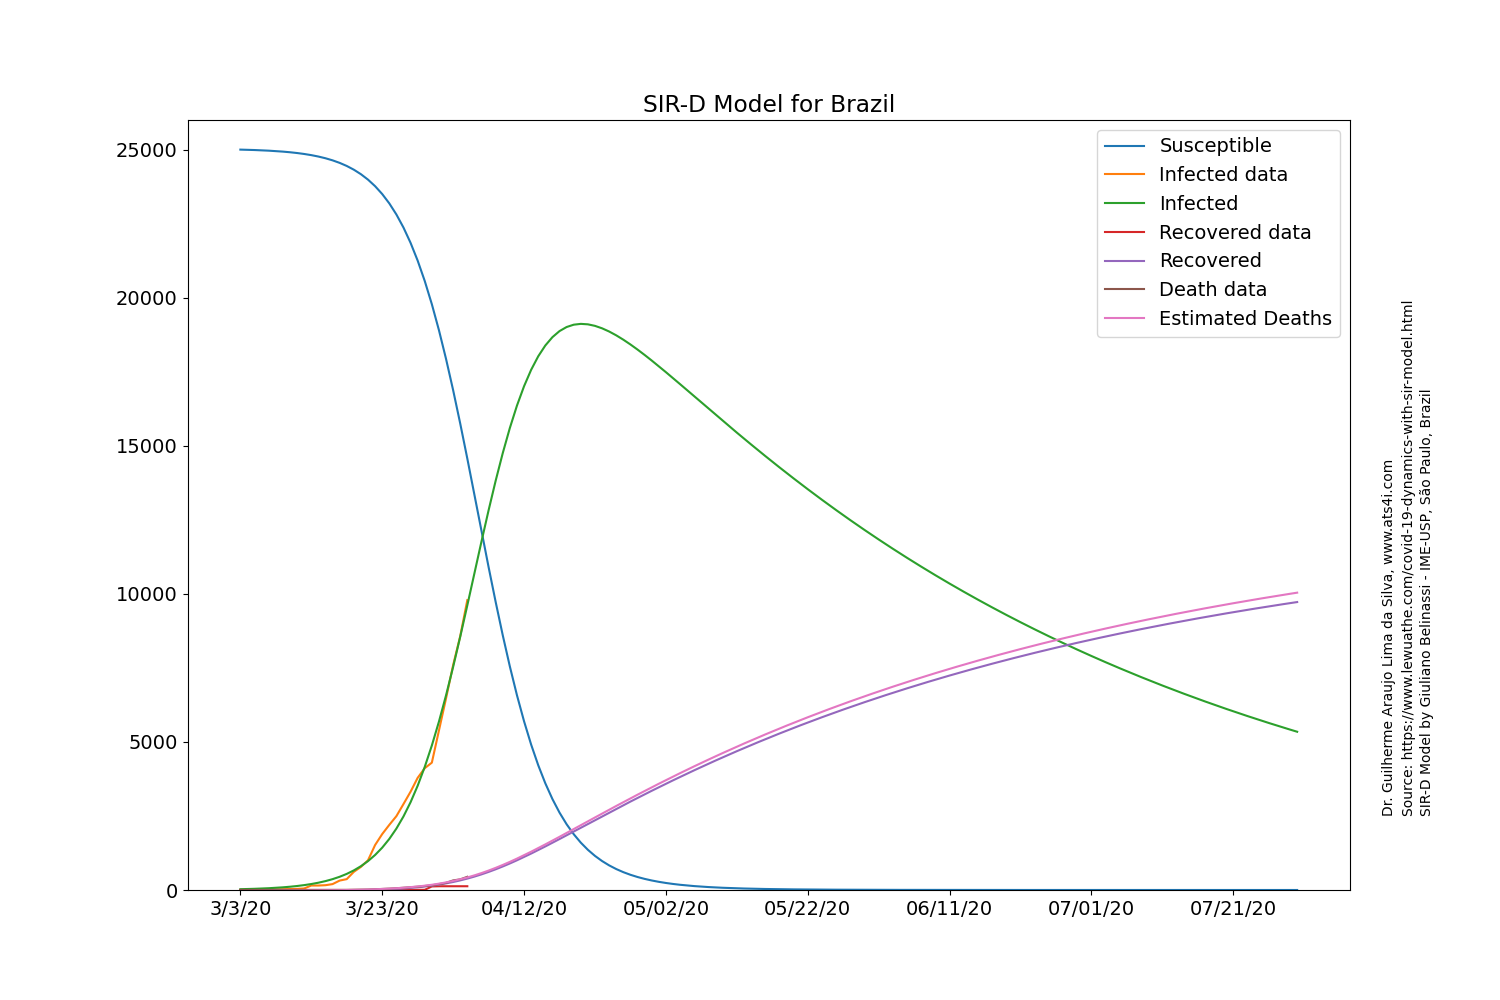
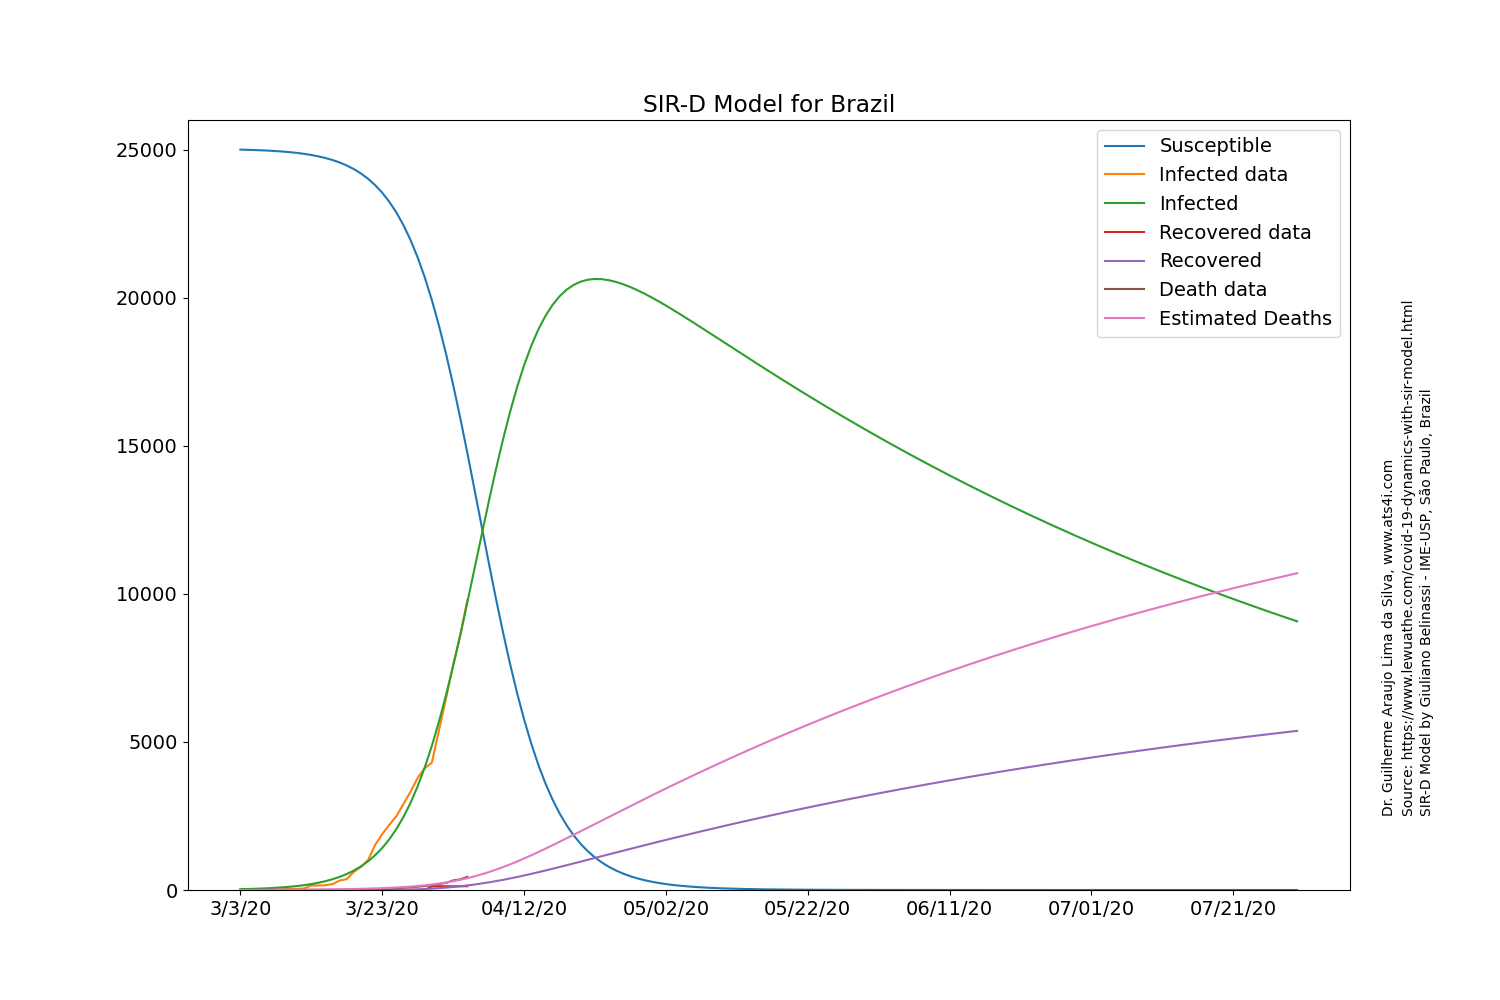
Now it is correct!

diff --git a/dataAndModelsCovid19.py b/dataAndModelsCovid19.py
@@ -71,7 +71,7 @@ def parse_arguments(country):
 
     if country1=="Italy":
         date="1/31/20"
-        s0=160000
+        s0=220000
         i0=23
         r0=15
         k0=100
@@ -264,8 +264,8 @@ class Learner(object):
         death = self.load_dead(self.country)
         data = (self.load_confirmed(self.country) - recovered - death)
 
-        #optimal = minimize(lossOdeint,        
-        optimal = minimize(loss,
+        optimal = minimize(lossOdeint,        
+        # optimal = minimize(loss,
             [0.001, 0.001, 0.001],
             args=(data, recovered, death, self.s_0, self.i_0, self.r_0, self.d_0),
             method='L-BFGS-B',
@@ -330,7 +330,7 @@ def lossOdeint(point, data, recovered, death, s_0, i_0, r_0, d_0):
     #weight for cases
     u = 0.25
     #weight for recovered
-    v = 0.01 ##Brazil France 0.04 US 0.02 China 0.01 (it has a lag in recoveries) Others 0.15
+    v = 0.15 ##Brazil France 0.04 US 0.02 China 0.01 (it has a lag in recoveries) Others 0.15
     #weight for deaths
     w = 1 - u - v
     return u*l1 + v*l2 + w*l3
@@ -339,7 +339,7 @@ def lossOdeint(point, data, recovered, death, s_0, i_0, r_0, d_0):
 def loss(point, data, recovered, death, s_0, i_0, r_0, d_0):
     size = len(data)
     beta, a, b = point
-    def SIR(t, y):
+    def SIR(y,t):
         S = y[0]
         I = y[1]
         R = y[2]
@@ -414,7 +414,7 @@ df=df.transpose()
 #opt=3 bar plot with growth rate
 #opt=4 log plot + bar plot
 #opt=5 SIR-D Model
-opt=0
+opt=5
 
 #prepare data for plotting
 country1="US"
@@ -444,7 +444,7 @@ country="Brazil"
 # "United Kingdom"
 # "US"
 # Countries above are already adjusted
-countrySIRD="Brazil"
+countrySIRD="Italy"
 
 # For other countries you can run at command line
 # but be sure to define S_0, I_0, R_0, K_0
